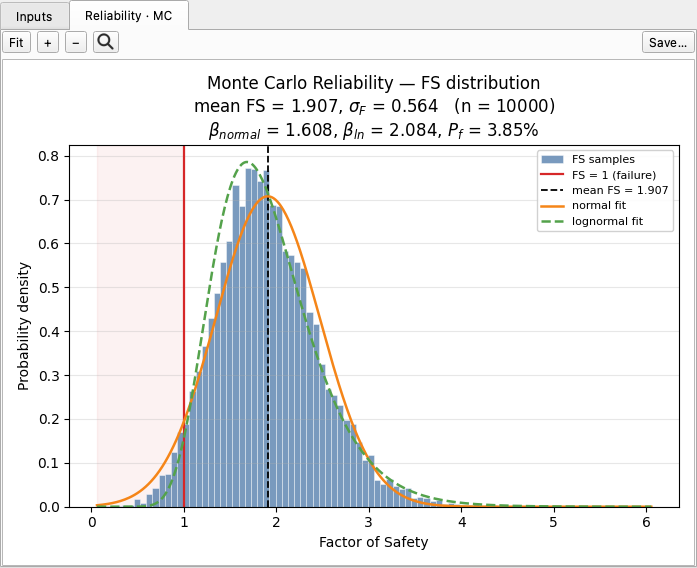
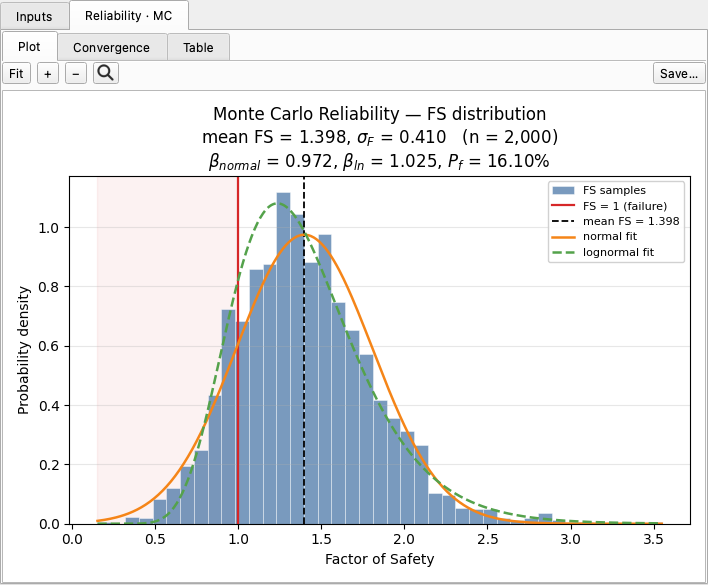
Studio docs: the Reliability · MC tab recaptured with its sub-tabs (638c follow-up). The histogram image dated from July and showed no Plot / Convergence / Table strip; both sub-tabs are now grabbed offscreen from a 2,000-realization Latin hypercube run on the shipped reliability sample by a new pro
Claude-Session: https://claude.ai/code/session_01XjjT2aBxw8gY7EFdpoUcpj

diff --git a/tools/capture_reliability_mc_tab.py b/tools/capture_reliability_mc_tab.py
@@ -1,0 +1,100 @@
+"""Studio's Reliability · MC tab, for docs/studio/analysis.md.
+
+Runs Monte Carlo through Studio's own runner on the shipped reliability sample
+(docs/inputs/slope/xslope_reliability.xlsx: Bishop on its circle, 2,000 Latin
+hypercube realizations, a fixed seed) and grabs the result tabs offscreen:
+
+    docs/studio/images/analysis_reliability_mc_histogram.png    (Plot sub-tab)
+    docs/studio/images/analysis_reliability_mc_convergence.png  (Convergence)
+
+Settings are sandboxed (tools.studio_settings) and the workbook is a copy.
+
+Run from the repo root:  PYTHONPATH=. python tools/capture_reliability_mc_tab.py
+"""
+
+import contextlib
+import io
+import os
+import shutil
+import sys
+import tempfile
+
+_REPO = os.path.dirname(os.path.dirname(os.path.abspath(__file__)))
+if _REPO not in sys.path:
+    sys.path.insert(0, _REPO)
+os.environ.setdefault("QT_QPA_PLATFORM", "offscreen")
+
+from tools import studio_settings                      # noqa: E402
+
+MODEL = os.path.join(_REPO, "docs", "inputs", "slope", "xslope_reliability.xlsx")
+OUT = os.path.join(_REPO, "docs", "studio", "images")
+OPTS = {"app_mode": "lem", "engine": "mc", "method": "bishop", "search": False,
+        "n_samples": 2000, "rng_seed": 20240117, "distribution": "normal",
+        "sampling": "lhs", "converge_rel": None, "num_slices": 40}
+WINDOW = (1400, 900)
+
+
+def _flush():
+    from PySide6.QtCore import QCoreApplication, QEvent
+    from PySide6.QtWidgets import QApplication
+    QCoreApplication.sendPostedEvents(None, QEvent.DeferredDelete)
+    QApplication.instance().processEvents()
+
+
+def main():
+    from PySide6.QtWidgets import QApplication, QMessageBox
+    app = QApplication.instance() or QApplication(sys.argv)
+    tmp = tempfile.mkdtemp(prefix="mc_tab_")
+    try:
+        with studio_settings.redirected(prefix="mc_tab_capture"):
+            from studio.main_window import MainWindow
+            from studio.runners import ReliabilityRunner
+            path = os.path.join(tmp, os.path.basename(MODEL))
+            shutil.copy(MODEL, path)
+            mw = MainWindow()
+            mw.resize(*WINDOW)
+            mw.show()
+            with contextlib.redirect_stdout(io.StringIO()):
+                mw.open_path(path)
+            _flush()
+            got = []
+            runner = ReliabilityRunner(mw.doc.slope_data, dict(OPTS))
+            runner.succeeded.connect(got.append)
+            runner.failed.connect(lambda m: got.append(RuntimeError(m)))
+            with contextlib.redirect_stdout(io.StringIO()):
+                runner.run()
+            if not got or isinstance(got[0], Exception):
+                raise SystemExit(f"the Monte Carlo run failed: {got}")
+            real = QMessageBox.information
+            QMessageBox.information = staticmethod(lambda *a, **k: None)
+            try:
+                with contextlib.redirect_stdout(io.StringIO()):
+                    mw._on_rel_succeeded(got[0])
+            finally:
+                QMessageBox.information = real
+            _flush()
+            view = mw.reliability_hist_canvas
+            mw.view_tabs.setCurrentWidget(view)
+            for label, name in (("Plot", "analysis_reliability_mc_histogram.png"),
+                                ("Convergence", "analysis_reliability_mc_convergence.png")):
+                idx = [view.tabs.tabText(i) for i in range(view.tabs.count())].index(label)
+                view.tabs.setCurrentIndex(idx)
+                _flush()
+                canvas = view.tabs.widget(idx)
+                if hasattr(canvas, "render_now"):
+                    canvas.render_now()
+                _flush()
+                out = os.path.join(OUT, name)
+                mw.view_tabs.grab().save(out)
+                print("wrote", os.path.relpath(out, _REPO))
+            rel = got[0]["reliability"]
+            print(f"Pf {rel['pf_empirical'] * 100:.2f}%")
+            mw.doc._dirty = False
+            mw.close()
+    finally:
+        shutil.rmtree(tmp, ignore_errors=True)
+    del app
+
+
+if __name__ == "__main__":
+    main()

diff --git a/docs/studio/analysis.md b/docs/studio/analysis.md
@@ -454,6 +454,8 @@ table is in the Log pane. The result view follows the engine:
 
 ![Monte Carlo reliability histogram](images/analysis_reliability_mc_histogram.png)
 
+![Monte Carlo convergence sub-tab: the running probability of failure with its 95% confidence band](images/analysis_reliability_mc_convergence.png)
+
 Those views carry the same **Table** sub-tab the Parametric ones do. The Taylor series lists
 each parameter with its most-likely value, its σ, the factor of safety at plus and minus one
 σ, and the swing ΔF the variance is built from; a sampling run lists the statistics behind
